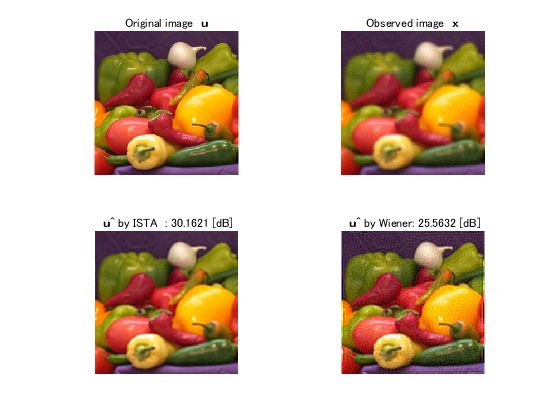
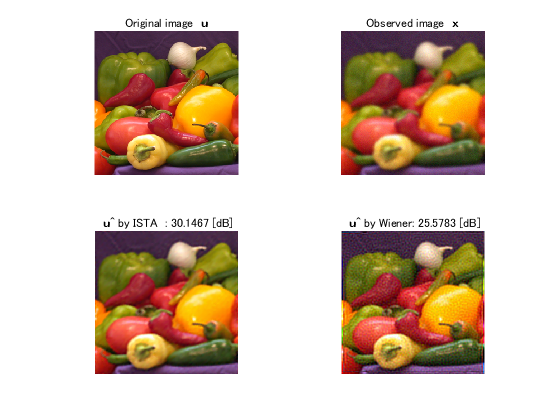
Fixed the atomic image display function

Changed region(s): [[0.6071, 0.5262, 0.8804, 0.8976], [0.3339, 0.5262, 0.3643, 0.5571]]

diff --git a/html/quickstart.html b/html/quickstart.html
@@ -6,7 +6,7 @@
    <!--
 This HTML was auto-generated from MATLAB code.
 To make changes, update the MATLAB code and republish this document.
-      --><title>Quickstart of SaivDr Package</title><meta name="generator" content="MATLAB 9.4"><link rel="schema.DC" href="http://purl.org/dc/elements/1.1/"><meta name="DC.date" content="2018-08-27"><meta name="DC.source" content="quickstart.m"><style type="text/css">
+      --><title>Quickstart of SaivDr Package</title><meta name="generator" content="MATLAB 9.7"><link rel="schema.DC" href="http://purl.org/dc/elements/1.1/"><meta name="DC.date" content="2019-10-22"><meta name="DC.source" content="quickstart.m"><style type="text/css">
 html,body,div,span,applet,object,iframe,h1,h2,h3,h4,h5,h6,p,blockquote,pre,a,abbr,acronym,address,big,cite,code,del,dfn,em,font,img,ins,kbd,q,s,samp,small,strike,strong,sub,sup,tt,var,b,u,i,center,dl,dt,dd,ol,ul,li,fieldset,form,label,legend,table,caption,tbody,tfoot,thead,tr,th,td{margin:0;padding:0;border:0;outline:0;font-size:100%;vertical-align:baseline;background:transparent}body{line-height:1}ol,ul{list-style:none}blockquote,q{quotes:none}blockquote:before,blockquote:after,q:before,q:after{content:'';content:none}:focus{outine:0}ins{text-decoration:none}del{text-decoration:line-through}table{border-collapse:collapse;border-spacing:0}
 
 html { min-height:100%; margin-bottom:1px; }
@@ -66,7 +66,7 @@ table td { padding:7px 5px; text-align:left; vertical-align:top; border:1px soli
 
 
 
-  </style></head><body><div class="content"><h1>Quickstart of <b>SaivDr Package</b></h1><!--introduction--><p>A brief introduction to image restroation with <b>SaivDr Package</b></p><!--/introduction--><h2>Contents</h2><div><ul><li><a href="#1">Summary</a></li><li><a href="#2">Add the package to search path</a></li><li><a href="#3">Read a source image</a></li><li><a href="#4">Create a degradation system object</a></li><li><a href="#5">Generate an observed image</a></li><li><a href="#6">Create an NSOLT system object</a></li><li><a href="#7">Create an analysis and synthesis system object</a></li><li><a href="#10">Create an ISTA-based image restoration system object</a></li><li><a href="#11">Create a step monitor system object</a></li><li><a href="#12">Perform ISTA-based image restoration</a></li><li><a href="#13">Extract the final evaluation</a></li><li><a href="#14">Perform Wiener filtering</a></li><li><a href="#15">Compare deblurring performances</a></li><li><a href="#16">Release notes</a></li></ul></div><h2 id="1">Summary</h2><p><b>SaivDr</b> is an abbreviation of <i>Sparsity-Aware Image and Volume Data Restoration</i>. This package is developed in order for making</p><div><ul><li>Experiments,</li><li>Development and</li><li>Implementation</li></ul></div><p>of sparsity-aware image and volume data restoraition algorithms simple.</p><p>Information about <b>SaivDr Package</b> is given in Contents.m. The HELP command can be used to see the contents as follows:</p><pre class="codeinput">help <span class="string">SaivDr</span>
+  </style></head><body><div class="content"><h1>Quickstart of <b>SaivDr Package</b></h1><!--introduction--><p>A brief introduction to image restroation with <b>SaivDr Package</b></p><!--/introduction--><h2>Contents</h2><div><ul><li><a href="#1">Summary</a></li><li><a href="#2">Add the package to search path</a></li><li><a href="#3">Read a source image</a></li><li><a href="#4">Create a degradation system object</a></li><li><a href="#5">Generate an observed image</a></li><li><a href="#6">Create an NSOLT system object</a></li><li><a href="#7">Create an analysis and synthesis system object</a></li><li><a href="#10">Create an ISTA-based image restoration system object</a></li><li><a href="#11">Create a step monitor system object</a></li><li><a href="#12">Perform ISTA-based image restoration</a></li><li><a href="#13">Extract the final evaluation</a></li><li><a href="#14">Perform Wiener filtering</a></li><li><a href="#15">Compare deblurring performances</a></li><li><a href="#16">Release notes</a></li></ul></div><h2 id="1">Summary</h2><p><b>SaivDr</b> is an abbreviation of <i>Sparsity-Aware Image and Volume Data Restoration</i>. This package is developed in order for making</p><div><ul><li>Experiments,</li><li>Development and</li><li>Implementation</li></ul></div><p>of sparsity-aware image and volume data restoraition algorithms simple.</p><p>Information about <b>SaivDr Package</b> is given in Contents.m. The HELP command can be used to see the contents as follows:</p><pre class="codeinput">help <span class="string">./Contents</span>
 </pre><pre class="codeoutput">  Sparsity-Aware Image and Volumetric Data Restoration Package
  
   Files
@@ -382,44 +382,44 @@ resImg = step(ista,obsImg); <span class="comment">% STEP method of IstaImRestora
 (  12)  PSNR =  29.62 [dB] 
 (  13)  PSNR =  29.67 [dB] 
 (  14)  PSNR =  29.71 [dB] 
-(  15)  PSNR =  29.76 [dB] 
+(  15)  PSNR =  29.75 [dB] 
 (  16)  PSNR =  29.79 [dB] 
 (  17)  PSNR =  29.82 [dB] 
 (  18)  PSNR =  29.85 [dB] 
 (  19)  PSNR =  29.88 [dB] 
 (  20)  PSNR =  29.90 [dB] 
 (  21)  PSNR =  29.92 [dB] 
-(  22)  PSNR =  29.95 [dB] 
+(  22)  PSNR =  29.94 [dB] 
 (  23)  PSNR =  29.96 [dB] 
 (  24)  PSNR =  29.98 [dB] 
-(  25)  PSNR =  30.00 [dB] 
+(  25)  PSNR =  29.99 [dB] 
 (  26)  PSNR =  30.01 [dB] 
 (  27)  PSNR =  30.02 [dB] 
 (  28)  PSNR =  30.03 [dB] 
-(  29)  PSNR =  30.05 [dB] 
-(  30)  PSNR =  30.06 [dB] 
-(  31)  PSNR =  30.07 [dB] 
-(  32)  PSNR =  30.08 [dB] 
+(  29)  PSNR =  30.04 [dB] 
+(  30)  PSNR =  30.05 [dB] 
+(  31)  PSNR =  30.06 [dB] 
+(  32)  PSNR =  30.07 [dB] 
 (  33)  PSNR =  30.08 [dB] 
-(  34)  PSNR =  30.09 [dB] 
-(  35)  PSNR =  30.10 [dB] 
-(  36)  PSNR =  30.11 [dB] 
-(  37)  PSNR =  30.11 [dB] 
-(  38)  PSNR =  30.12 [dB] 
-(  39)  PSNR =  30.12 [dB] 
-(  40)  PSNR =  30.13 [dB] 
-(  41)  PSNR =  30.13 [dB] 
-(  42)  PSNR =  30.14 [dB] 
-(  43)  PSNR =  30.14 [dB] 
-(  44)  PSNR =  30.14 [dB] 
-(  45)  PSNR =  30.15 [dB] 
-(  46)  PSNR =  30.15 [dB] 
-(  47)  PSNR =  30.15 [dB] 
-(  48)  PSNR =  30.15 [dB] 
-(  49)  PSNR =  30.16 [dB] 
-(  50)  PSNR =  30.16 [dB] 
-(  51)  PSNR =  30.16 [dB] 
-(  52)  PSNR =  30.16 [dB] 
+(  34)  PSNR =  30.08 [dB] 
+(  35)  PSNR =  30.09 [dB] 
+(  36)  PSNR =  30.10 [dB] 
+(  37)  PSNR =  30.10 [dB] 
+(  38)  PSNR =  30.11 [dB] 
+(  39)  PSNR =  30.11 [dB] 
+(  40)  PSNR =  30.12 [dB] 
+(  41)  PSNR =  30.12 [dB] 
+(  42)  PSNR =  30.13 [dB] 
+(  43)  PSNR =  30.13 [dB] 
+(  44)  PSNR =  30.13 [dB] 
+(  45)  PSNR =  30.13 [dB] 
+(  46)  PSNR =  30.14 [dB] 
+(  47)  PSNR =  30.14 [dB] 
+(  48)  PSNR =  30.14 [dB] 
+(  49)  PSNR =  30.14 [dB] 
+(  50)  PSNR =  30.14 [dB] 
+(  51)  PSNR =  30.15 [dB] 
+(  52)  PSNR =  30.15 [dB] 
 </pre><img vspace="5" hspace="5" src="quickstart_02.png" alt=""> <h2 id="13">Extract the final evaluation</h2><p>The object of StepMonitoringSystem, <i>stepmonitor</i> , stores the evaluation values calculated iteratively in ISTA as a vector. The GET method of <i>stepmonitor</i>  can be used to extract the number of iterations and the sequence of PSNRs.</p><pre class="codeinput">nItr  = get(stepmonitor,<span class="string">'nItr'</span>);
 psnrs = get(stepmonitor,<span class="string">'PSNRs'</span>);
 psnr_ista = psnrs(nItr);
@@ -447,7 +447,7 @@ fprintf(<span class="string">'\n Wiener'</span>)
 psnr_wfdc = step(stepmonitor,wnfImg); <span class="comment">% STEP method of StepMonitoringSystem</span>
 </pre><pre class="codeoutput">
  Wiener
-(   1)  PSNR =  25.56 [dB] 
+(   1)  PSNR =  25.58 [dB] 
 </pre><h2 id="15">Compare deblurring performances</h2><p>In order to compare the deblurring performances between two methods, ISTA-based deblurring with NSOLT and Wiener filter, let us show the original, observed and two results in one figure together.</p><pre class="codeinput">hfig3 = figure(3);
 
 <span class="comment">% Original image x</span>
@@ -584,7 +584,7 @@ title([<span class="string">'{\bf u}\^ by Wiener: '</span> num2str(psnr_wfdc) <s
   For now, this problem is avoided by running PARPOOL before running MYTEST.
 
 ---
-</pre><p class="footer"><br><a href="https://www.mathworks.com/products/matlab/">Published with MATLAB&reg; R2018a</a><br></p></div><!--
+</pre><p class="footer"><br><a href="https://www.mathworks.com/products/matlab/">Published with MATLAB&reg; R2019b</a><br></p></div><!--
 ##### SOURCE BEGIN #####
 %% Quickstart of *SaivDr Package*
 % A brief introduction to image restroation with *SaivDr Package*
@@ -602,7 +602,7 @@ title([<span class="string">'{\bf u}\^ by Wiener: '</span> num2str(psnr_wfdc) <s
 % Information about *SaivDr Package* is given in Contents.m.
 % The HELP command can be used to see the contents as follows:
 
-help SaivDr
+help ./Contents
 
 %% Add the package to search path
 % Before using *SaivDr Package* , it is required to add the package top 

diff --git a/quickstart.m b/quickstart.m
@@ -14,7 +14,7 @@
 % Information about *SaivDr Package* is given in Contents.m.
 % The HELP command can be used to see the contents as follows:
 
-help SaivDr
+help ./Contents
 
 %% Add the package to search path
 % Before using *SaivDr Package* , it is required to add the package top 

diff --git a/+saivdr/+dictionary/+nsoltx/AbstOvsdLpPuFb2dTypeIISystem.m b/+saivdr/+dictionary/+nsoltx/AbstOvsdLpPuFb2dTypeIISystem.m
@@ -61,6 +61,8 @@ classdef AbstOvsdLpPuFb2dTypeIISystem < ...
                     obj.mexFcn = @fcn_Order2BuildingBlockTypeII;
                 end
             end
+            %
+            obj.ParameterMatrixSet.release()
         end
         
         function resetImpl(obj)

diff --git a/+saivdr/+dictionary/+nsoltx/AbstOvsdLpPuFb2dTypeISystem.m b/+saivdr/+dictionary/+nsoltx/AbstOvsdLpPuFb2dTypeISystem.m
@@ -61,6 +61,8 @@ classdef AbstOvsdLpPuFb2dTypeISystem < ...
                     obj.mexFcn = @fcn_Order1BuildingBlockTypeI;
                 end
             end
+            %
+            obj.ParameterMatrixSet.release()
         end
         
         function resetImpl(obj)
